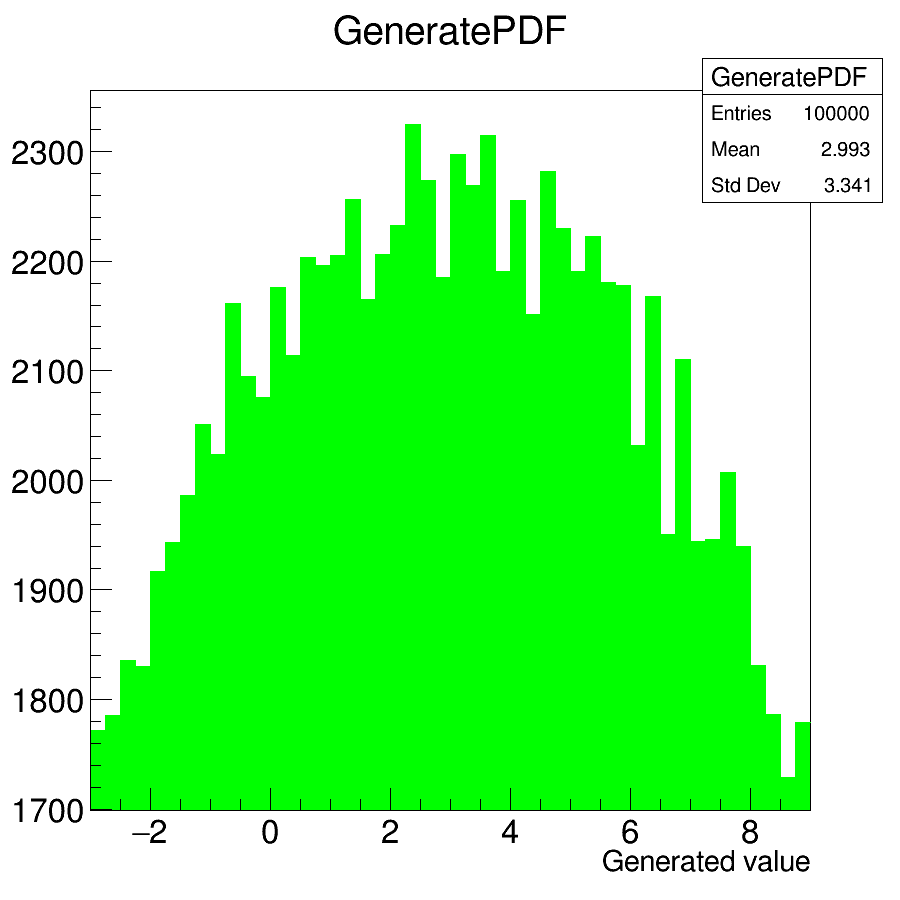
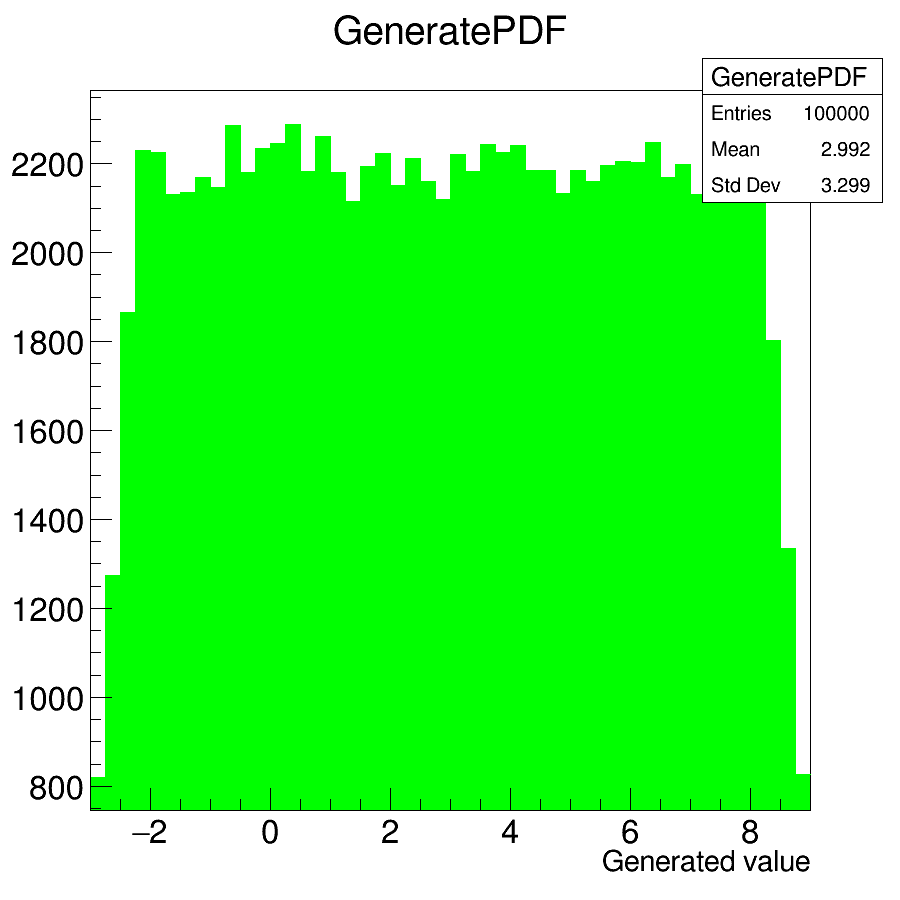
first commit

diff --git a/kol1/z1/Generator.cpp b/kol1/z1/Generator.cpp
@@ -10,8 +10,8 @@ void Generator::GeneratePDF(){
 	canvas = new TCanvas ();
 	hist = new TH1F ("GeneratePDF","GeneratePDF",48,-3,9);
 	while(i<1E5){
-		rng=-3+12*(float)rand()/ RAND_MAX;
-		f=-(rng+3)*(rng-9)/36.;
+		rng=-3+12*(float)rand()/RAND_MAX;
+		f=-(rng+3)*(rng-9);
 		rng2=-3+12*(float)rand()/RAND_MAX;
 			if(rng2<f){
 				hist->Fill(rng);
